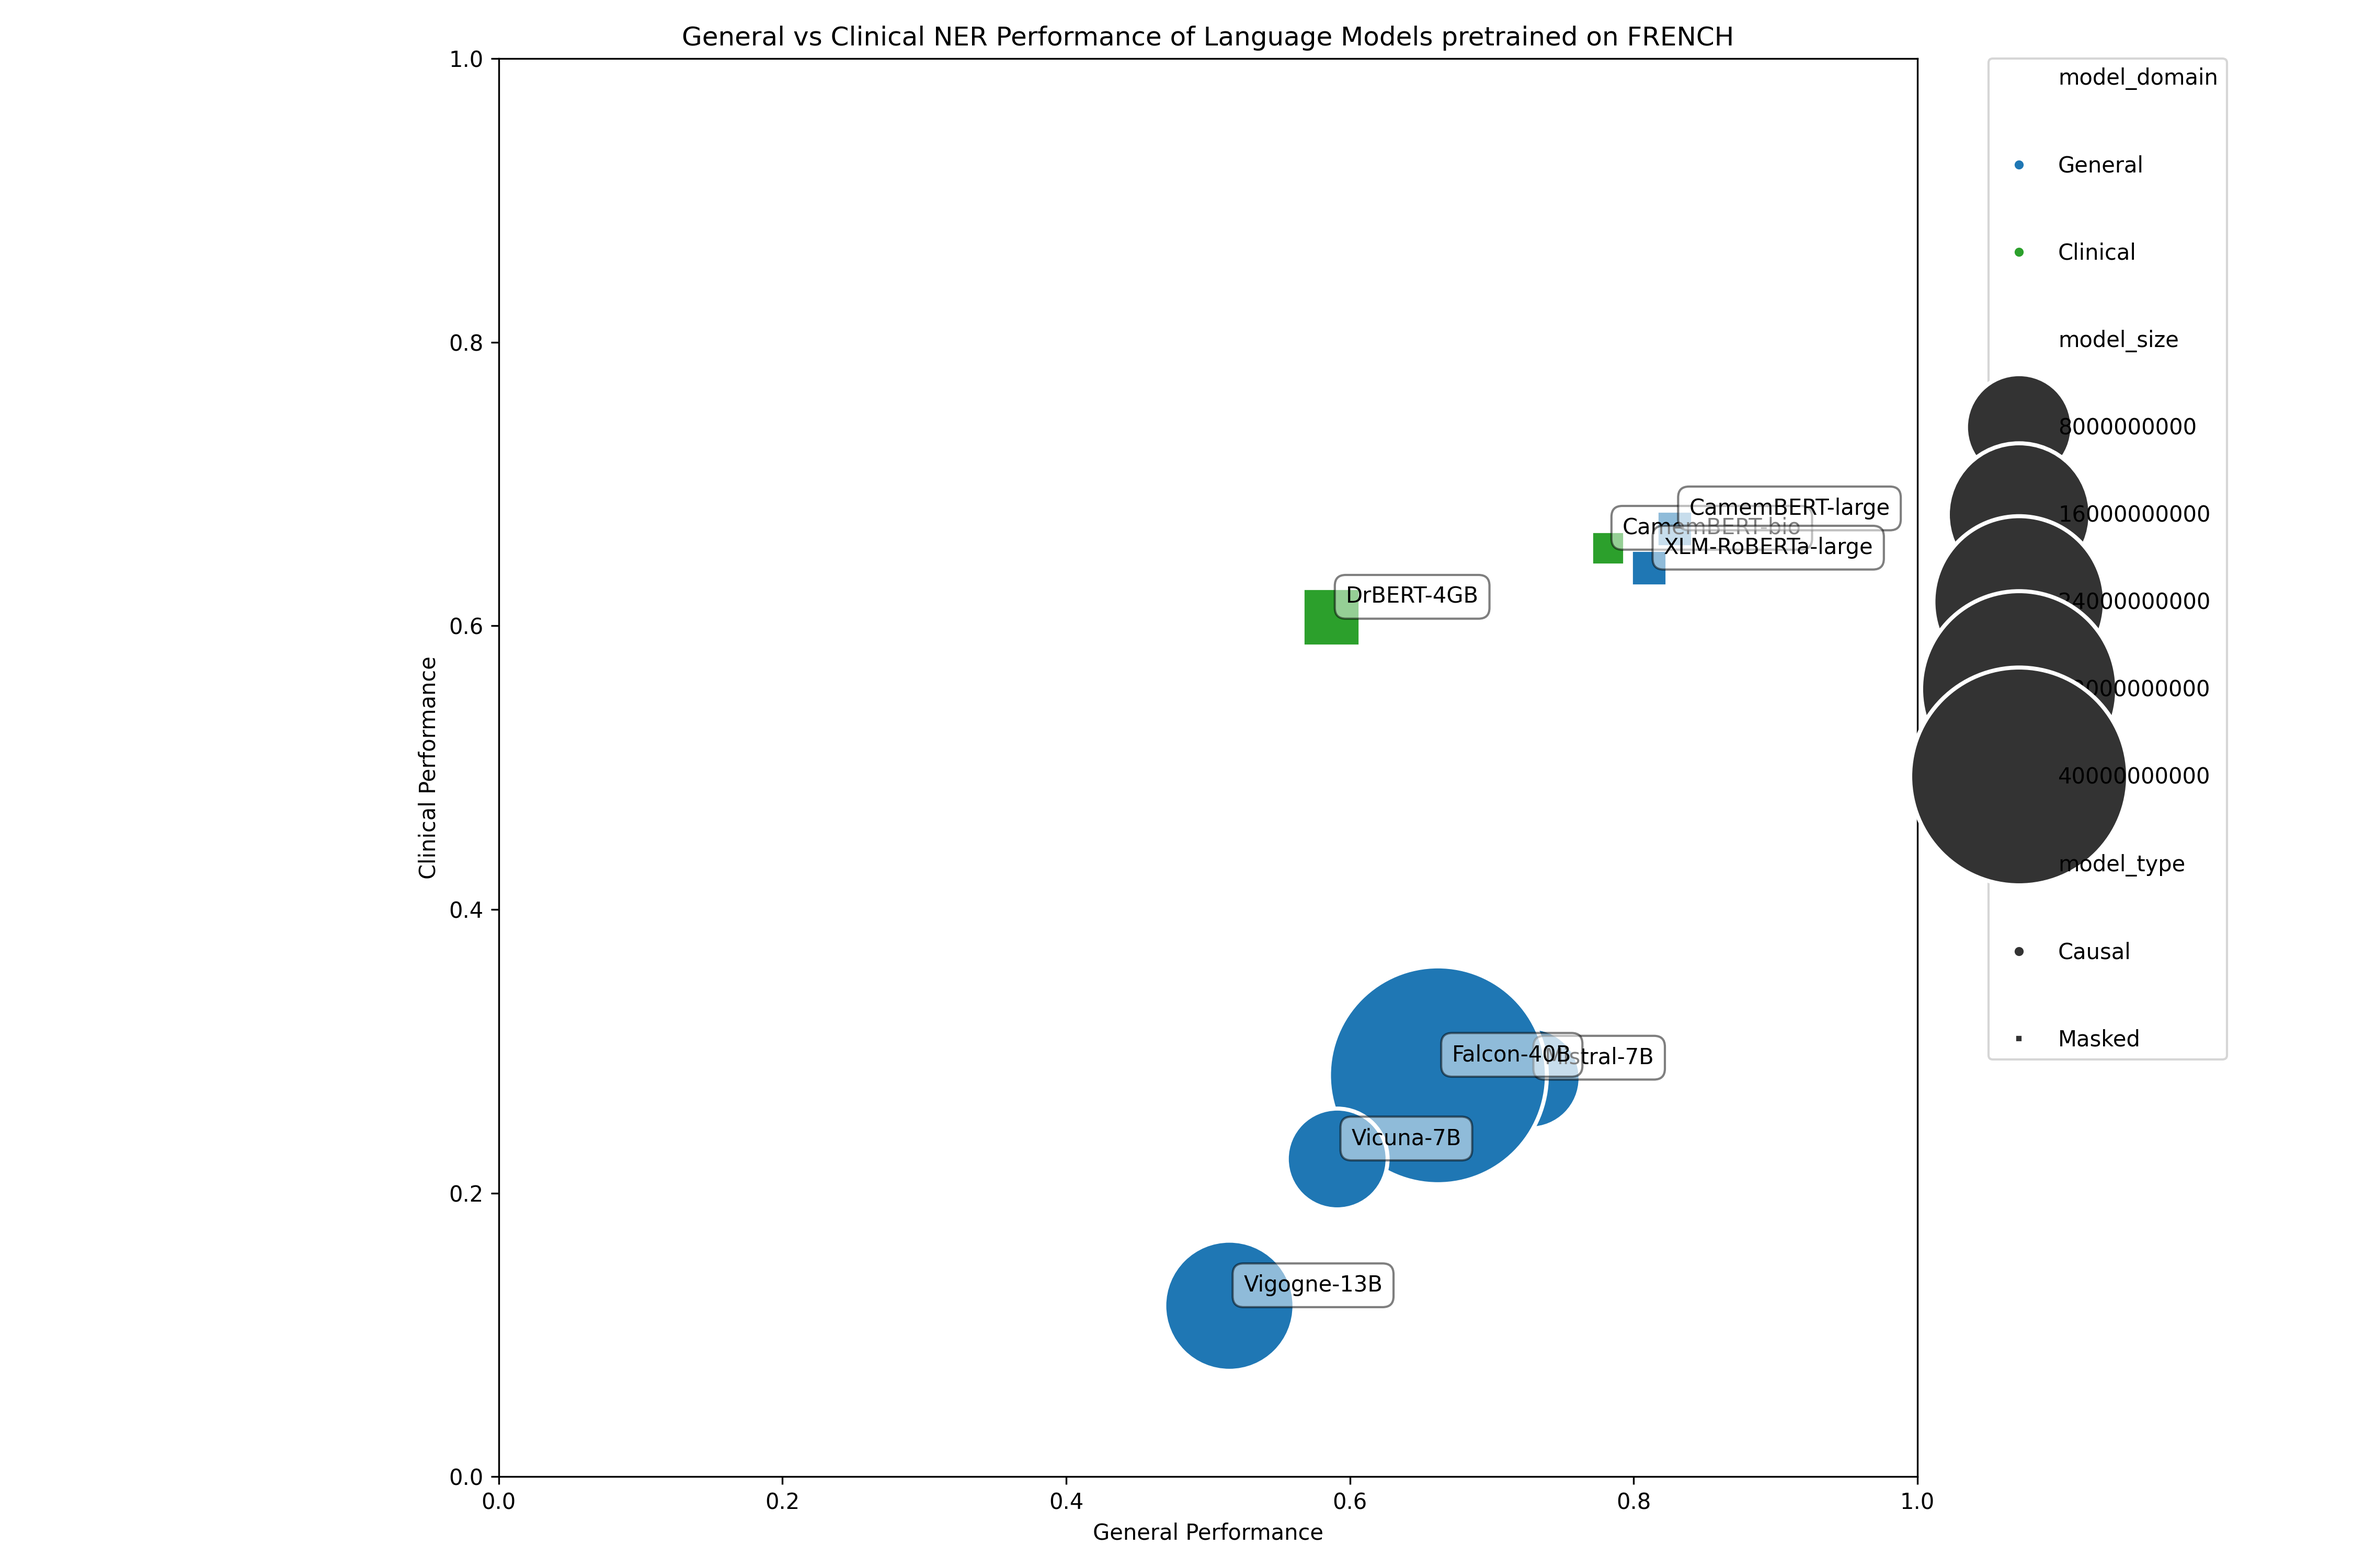
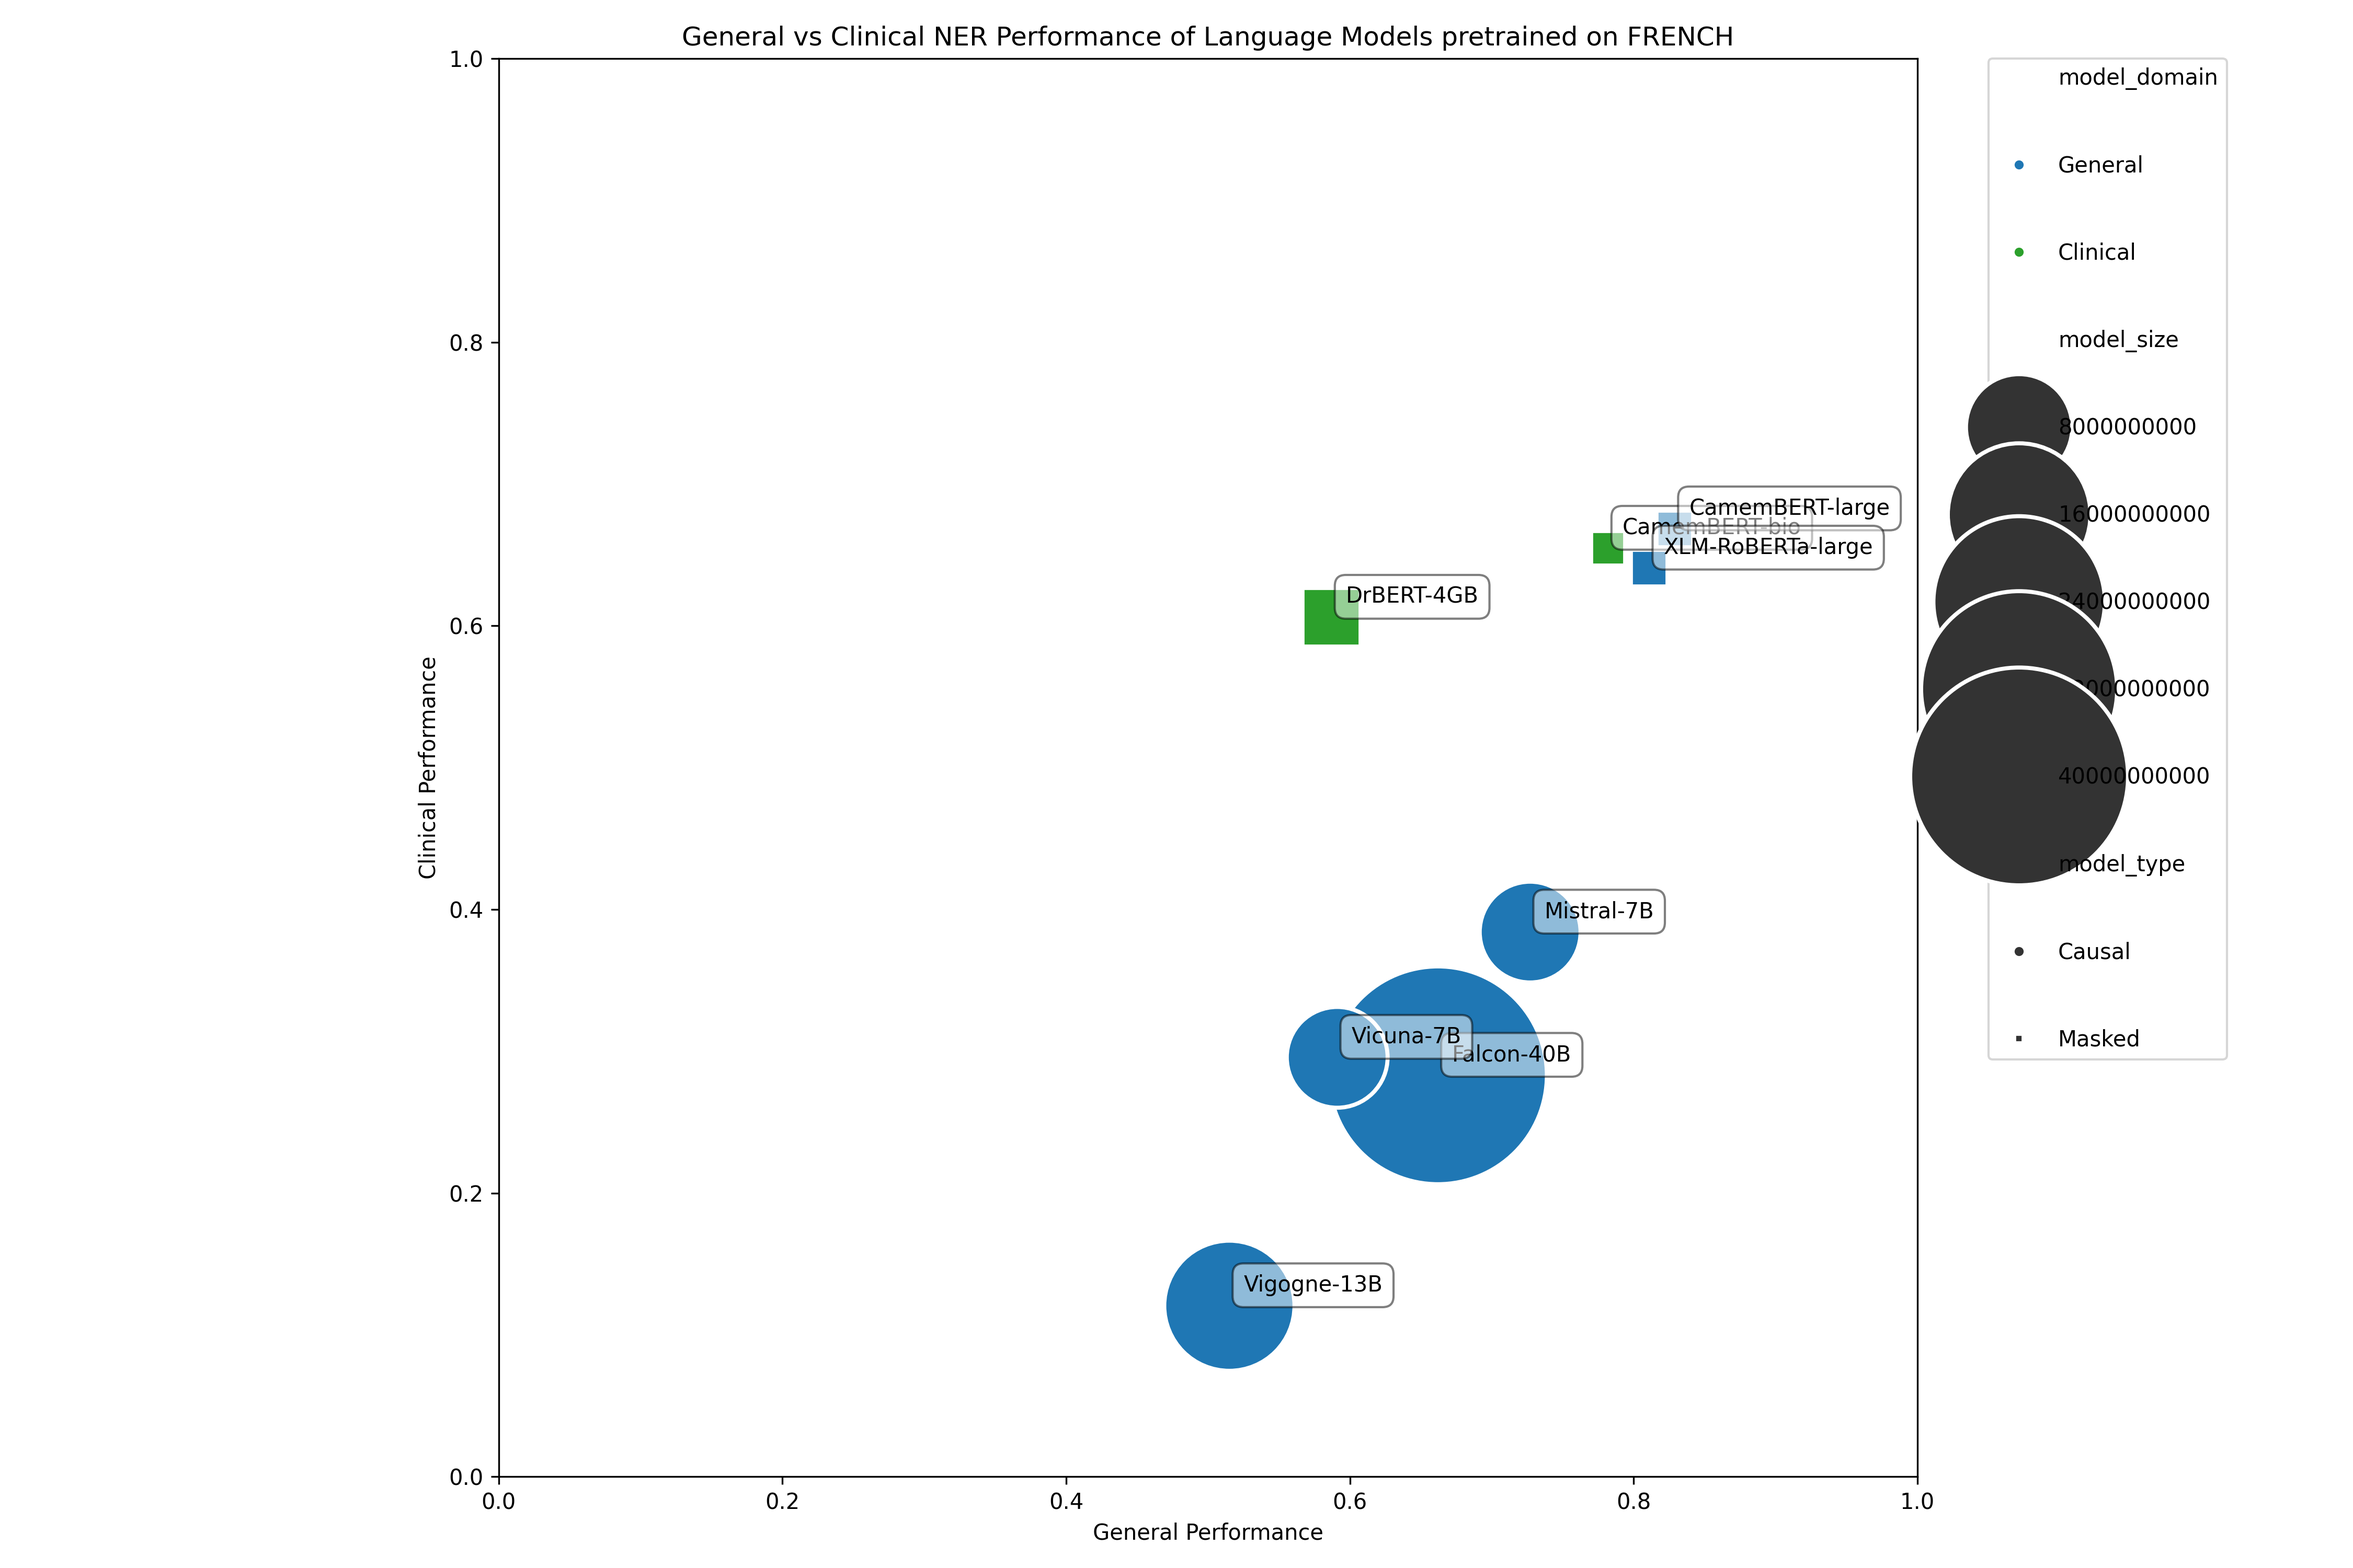
added placeholders for the remaining datasets

Changed region(s): [[0.5289, 0.62, 0.7156, 0.775], [0.6222, 0.558, 0.7156, 0.62]]

diff --git a/result_tabs_and_plots/results_table.tex b/result_tabs_and_plots/results_table.tex
@@ -1,27 +1,26 @@
-\scalebox{0.8}{\begin{tabular}{ll|cccc|cccc|cccc}
-\toprule
- & & \multicolumn{4}{c|}{English} & \multicolumn{4}{c|}{French} & \multicolumn{4}{c}{Spanish} \\
-\cmidrule{3-6} \cmidrule{7-10} \cmidrule{11-14}
-& Model & WikiNER & CoNLL2003 & E3C & n2c2 & WikiNER & E3C & EMEA & MEDLINE & WikiNER & CoNLL2002 & E3C & CWL \\
+\scalebox{0.7}{\begin{tabular}{ll|cccccc|ccccc|cccc}
+ & & \multicolumn{6}{c|}{English} & \multicolumn{5}{c|}{French} & \multicolumn{4}{c}{Spanish} \\
+\cmidrule{3-8} \cmidrule{9-13} \cmidrule{14-17}
+& Model & WikiNER & CoNLL2003 & ACE & E3C & n2c2 & i2b2 & WikiNER & QFP & E3C & EMEA & MEDLINE & WikiNER & CoNLL2002 & E3C & CWL \\
 \midrule
-\multirow{6}{*}{\rotatebox[origin=c]{90}{Causal}} & Mistral-7B & 0.754 & 0.645 & - & 0.291 & 0.727 & - & 0.229 & 0.333 & 0.72 & - & - & - \\
- & Falcon-40B & 0.686 & 0.708 & - & 0.279 & 0.662 & - & - & 0.283 & 0.72 & - & - & - \\
- & Vicuna-13B & - & 0.708 & - & 0.236 & - & - & - & 0.326 & - & - & - & - \\
- & Vicuna-7B & 0.594 & 0.388 & - & 0.147 & 0.591 & - & 0.152 & 0.296 & 0.659 & - & - & - \\
- & Medalpaca-7B & - & 0.558 & - & 0.191 & - & - & 0.161 & 0.224 & - & - & - & - \\
- & Vigogne-13B & - & 0.655 & - & 0.176 & 0.515 & - & 0.099 & 0.142 & - & - & - & - \\
+\multirow{6}{*}{\rotatebox[origin=c]{90}{Causal}} & Mistral-7B & 0.754 & 0.645 & - & - & 0.291 & - & 0.727 & - & 0.59 & 0.229 & 0.333 & 0.72 & - & 0.083 & - \\
+ & Falcon-40B & 0.686 & 0.708 & - & - & 0.279 & - & 0.662 & - & - & - & 0.283 & 0.72 & - & - & - \\
+ & Vicuna-13B & - & 0.708 & - & - & 0.236 & - & - & - & - & - & 0.326 & - & - & - & - \\
+ & Vicuna-7B & 0.594 & 0.388 & - & - & 0.147 & - & 0.591 & - & 0.439 & 0.152 & 0.296 & 0.659 & - & 0.042 & - \\
+ & Medalpaca-7B & - & 0.558 & - & - & 0.191 & - & - & - & - & 0.161 & 0.224 & - & - & - & - \\
+ & Vigogne-13B & - & 0.655 & - & - & 0.176 & - & 0.515 & - & - & 0.099 & 0.142 & - & - & - & - \\
 \midrule
-\multirow{12}{*}{\rotatebox[origin=c]{90}{Masked}} & XLM-RoBERTa-large & 0.786 & 0.826 & - & 0.465 & 0.811 & 0.762 & 0.629 & 0.531 & 0.797 & 0.781 & 0.325 & - \\
- & BERT-large & 0.776 & 0.835 & 0.613 & 0.435 & - & - & - & - & - & - & - & - \\
- & RoBERTa-large & 0.79 & 0.862 & 0.616 & 0.466 & - & - & - & - & - & - & - & - \\
- & ClinicalBERT & 0.462 & 0.597 & 0.622 & 0.484 & - & - & - & - & - & - & - & - \\
- & MedBERT & 0.613 & 0.673 & - & 0.485 & - & - & - & - & - & - & - & - \\
- & CamemBERT-large & - & - & - & - & 0.829 & 0.767 & 0.661 & 0.577 & - & - & - & - \\
- & DrBERT-4GB & - & - & - & - & 0.587 & 0.73 & 0.602 & 0.486 & - & - & - & - \\
- & CamemBERT-bio & - & - & - & - & 0.782 & 0.779 & 0.636 & 0.549 & - & - & - & - \\
- & BETO & - & - & - & - & - & - & - & - & 0.794 & 0.732 & 0.35 & - \\
- & PatanaBERT & - & - & - & - & - & - & - & - & 0.802 & 0.769 & 0.343 & - \\
- & TulioBERT & - & - & - & - & - & - & - & - & 0.804 & 0.798 & 0.338 & - \\
- & BETO-Galen & - & - & - & - & - & - & - & - & 0.149 & 0.254 & 0.182 & - \\
+\multirow{12}{*}{\rotatebox[origin=c]{90}{Masked}} & XLM-RoBERTa-large & 0.786 & 0.826 & - & 0.637 & 0.465 & - & 0.811 & - & 0.762 & 0.629 & 0.531 & 0.797 & 0.781 & 0.325 & - \\
+ & BERT-large & 0.776 & 0.835 & - & 0.613 & 0.435 & - & - & - & - & - & - & - & - & - & - \\
+ & RoBERTa-large & 0.79 & 0.862 & - & 0.616 & 0.466 & - & - & - & - & - & - & - & - & - & - \\
+ & ClinicalBERT & 0.462 & 0.597 & - & 0.622 & 0.484 & - & - & - & - & - & - & - & - & - & - \\
+ & MedBERT & 0.613 & 0.673 & - & 0.607 & 0.485 & - & - & - & - & - & - & - & - & - & - \\
+ & CamemBERT-large & - & - & - & - & - & - & 0.829 & - & 0.767 & 0.661 & 0.577 & - & - & - & - \\
+ & DrBERT-4GB & - & - & - & - & - & - & 0.587 & - & 0.73 & 0.602 & 0.486 & - & - & - & - \\
+ & CamemBERT-bio & - & - & - & - & - & - & 0.782 & - & 0.779 & 0.636 & 0.549 & - & - & - & - \\
+ & BETO & - & - & - & - & - & - & - & - & - & - & - & 0.794 & 0.732 & 0.35 & - \\
+ & PatanaBERT & - & - & - & - & - & - & - & - & - & - & - & 0.802 & 0.769 & 0.343 & - \\
+ & TulioBERT & - & - & - & - & - & - & - & - & - & - & - & 0.804 & 0.798 & 0.338 & - \\
+ & BETO-Galen & - & - & - & - & - & - & - & - & - & - & - & 0.149 & 0.254 & 0.182 & - \\
 \bottomrule
 \end{tabular}}

diff --git a/scatterplot_results.py b/scatterplot_results.py
@@ -116,9 +116,9 @@ df_table = df_table.rename_axis(None, axis=1)
 df_table = df_table.rename_axis(None, axis=0)
 
 df_table = df_table[ordered_datasets['en'] + ordered_datasets['fr'] + ordered_datasets['es'] + ['model_type']]
-latex = "\\scalebox{0.8}{\\begin{tabular}"
+latex = "\\scalebox{0.7}{\\begin{tabular}"
 latex += "{ll|" + "c"*len(ordered_datasets['en']) + "|" + "c"*len(ordered_datasets['fr']) + "|" + "c"*len(ordered_datasets['es']) + "}\n"
-latex += "\\toprule\n"
+# latex += "\\toprule\n"
 latex += " & & \\multicolumn{" + str(len(ordered_datasets['en'])) + "}{c|}{English} & \\multicolumn{" + str(len(ordered_datasets['fr'])) + "}{c|}{French} & \\multicolumn{" + str(len(ordered_datasets['es'])) + "}{c}{Spanish} \\\\\n"
 latex += "\\cmidrule{3-" + str(len(ordered_datasets['en'])+2) + "} \\cmidrule{" + str(len(ordered_datasets['en'])+3) + "-" + str(len(ordered_datasets['en'])+len(ordered_datasets['fr'])+2) + "} \\cmidrule{" + str(len(ordered_datasets['en'])+len(ordered_datasets['fr'])+3) + "-" + str(len(ordered_datasets['en'])+len(ordered_datasets['fr'])+len(ordered_datasets['es'])+2) + "}\n"
 latex += ("& Model & " + " & ".join(ordered_datasets['en']) + " & " + " & ".join(ordered_datasets['fr']) + " & " + " & ".join(ordered_datasets['es']) + " \\\\\n").replace('-en', '').replace('-fr', '').replace('-es', '')

diff --git a/read_jsons.py b/read_jsons.py
@@ -11,15 +11,18 @@ dataset_hierarchy = {
         "General": {
             "WikiNER-en": "WikiNER-en",
             "conll2003": "CoNLL2003",
+            "ACE2004": "ACE",
         },
         "Clinical": {
             "e3c_en": "E3C-en",
             "n2c2": "n2c2",
+            "i2b2": "i2b2",
         },
     },
     "french": {
         "General": {
             "WikiNER-fr": "WikiNER-fr",
+            "quaerofrenchpress": "QFP",
         },
         "Clinical": {
             "e3c_fr": "E3C-fr",
